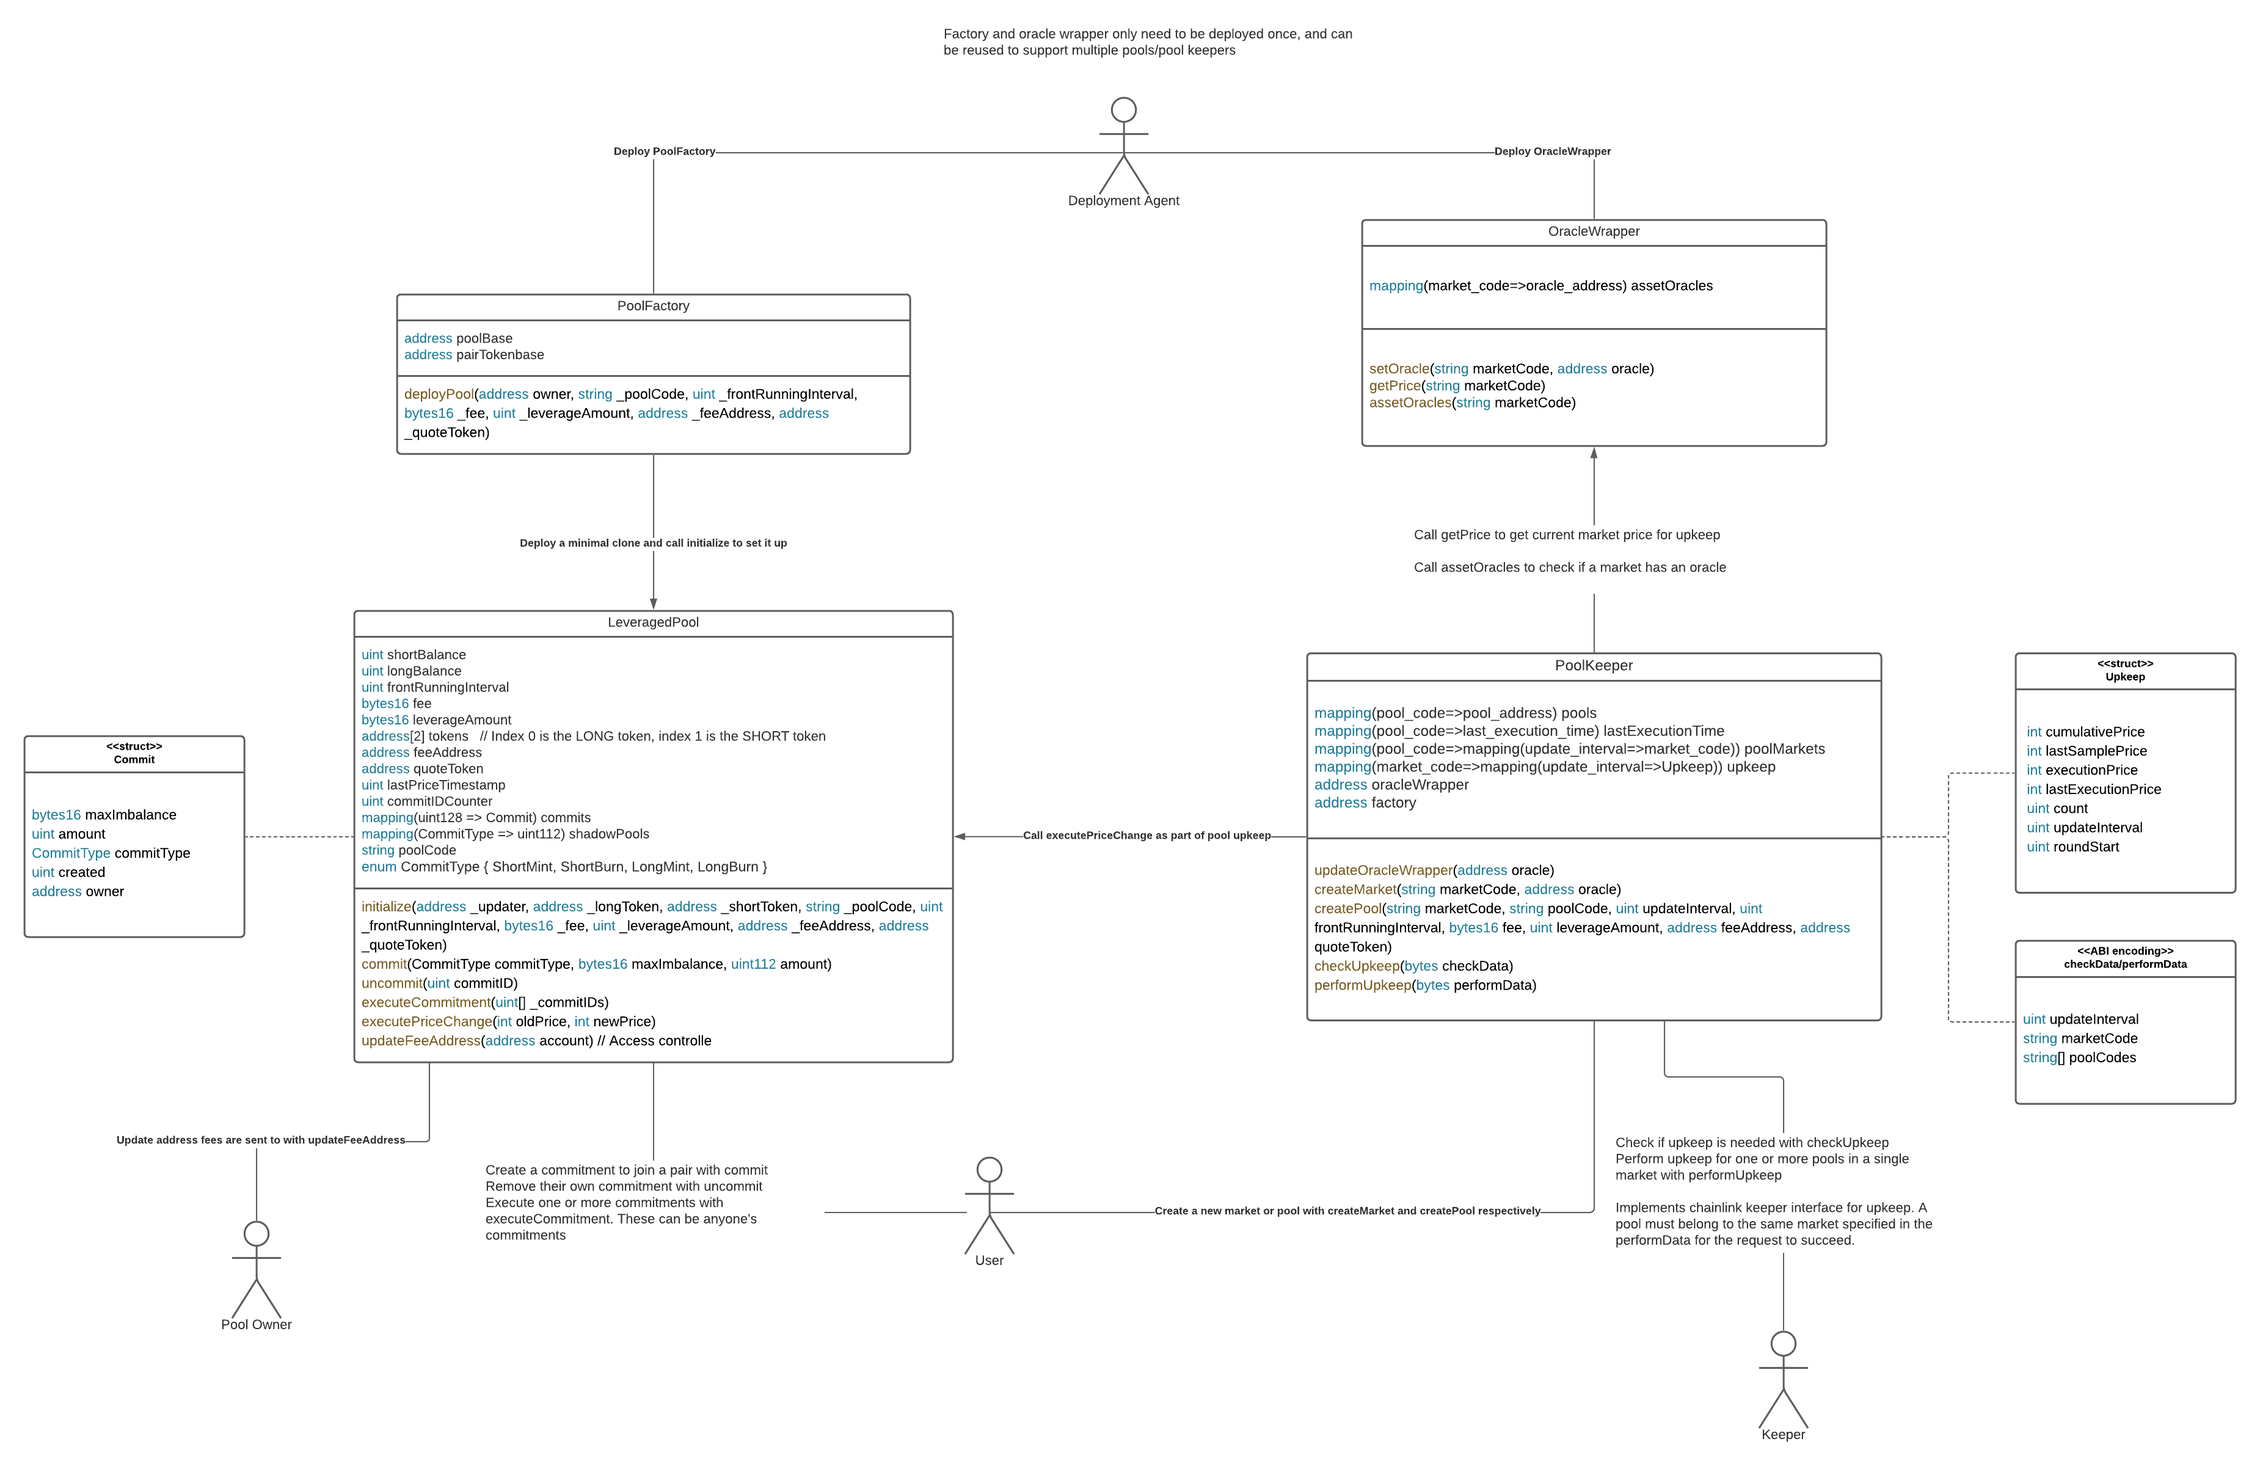
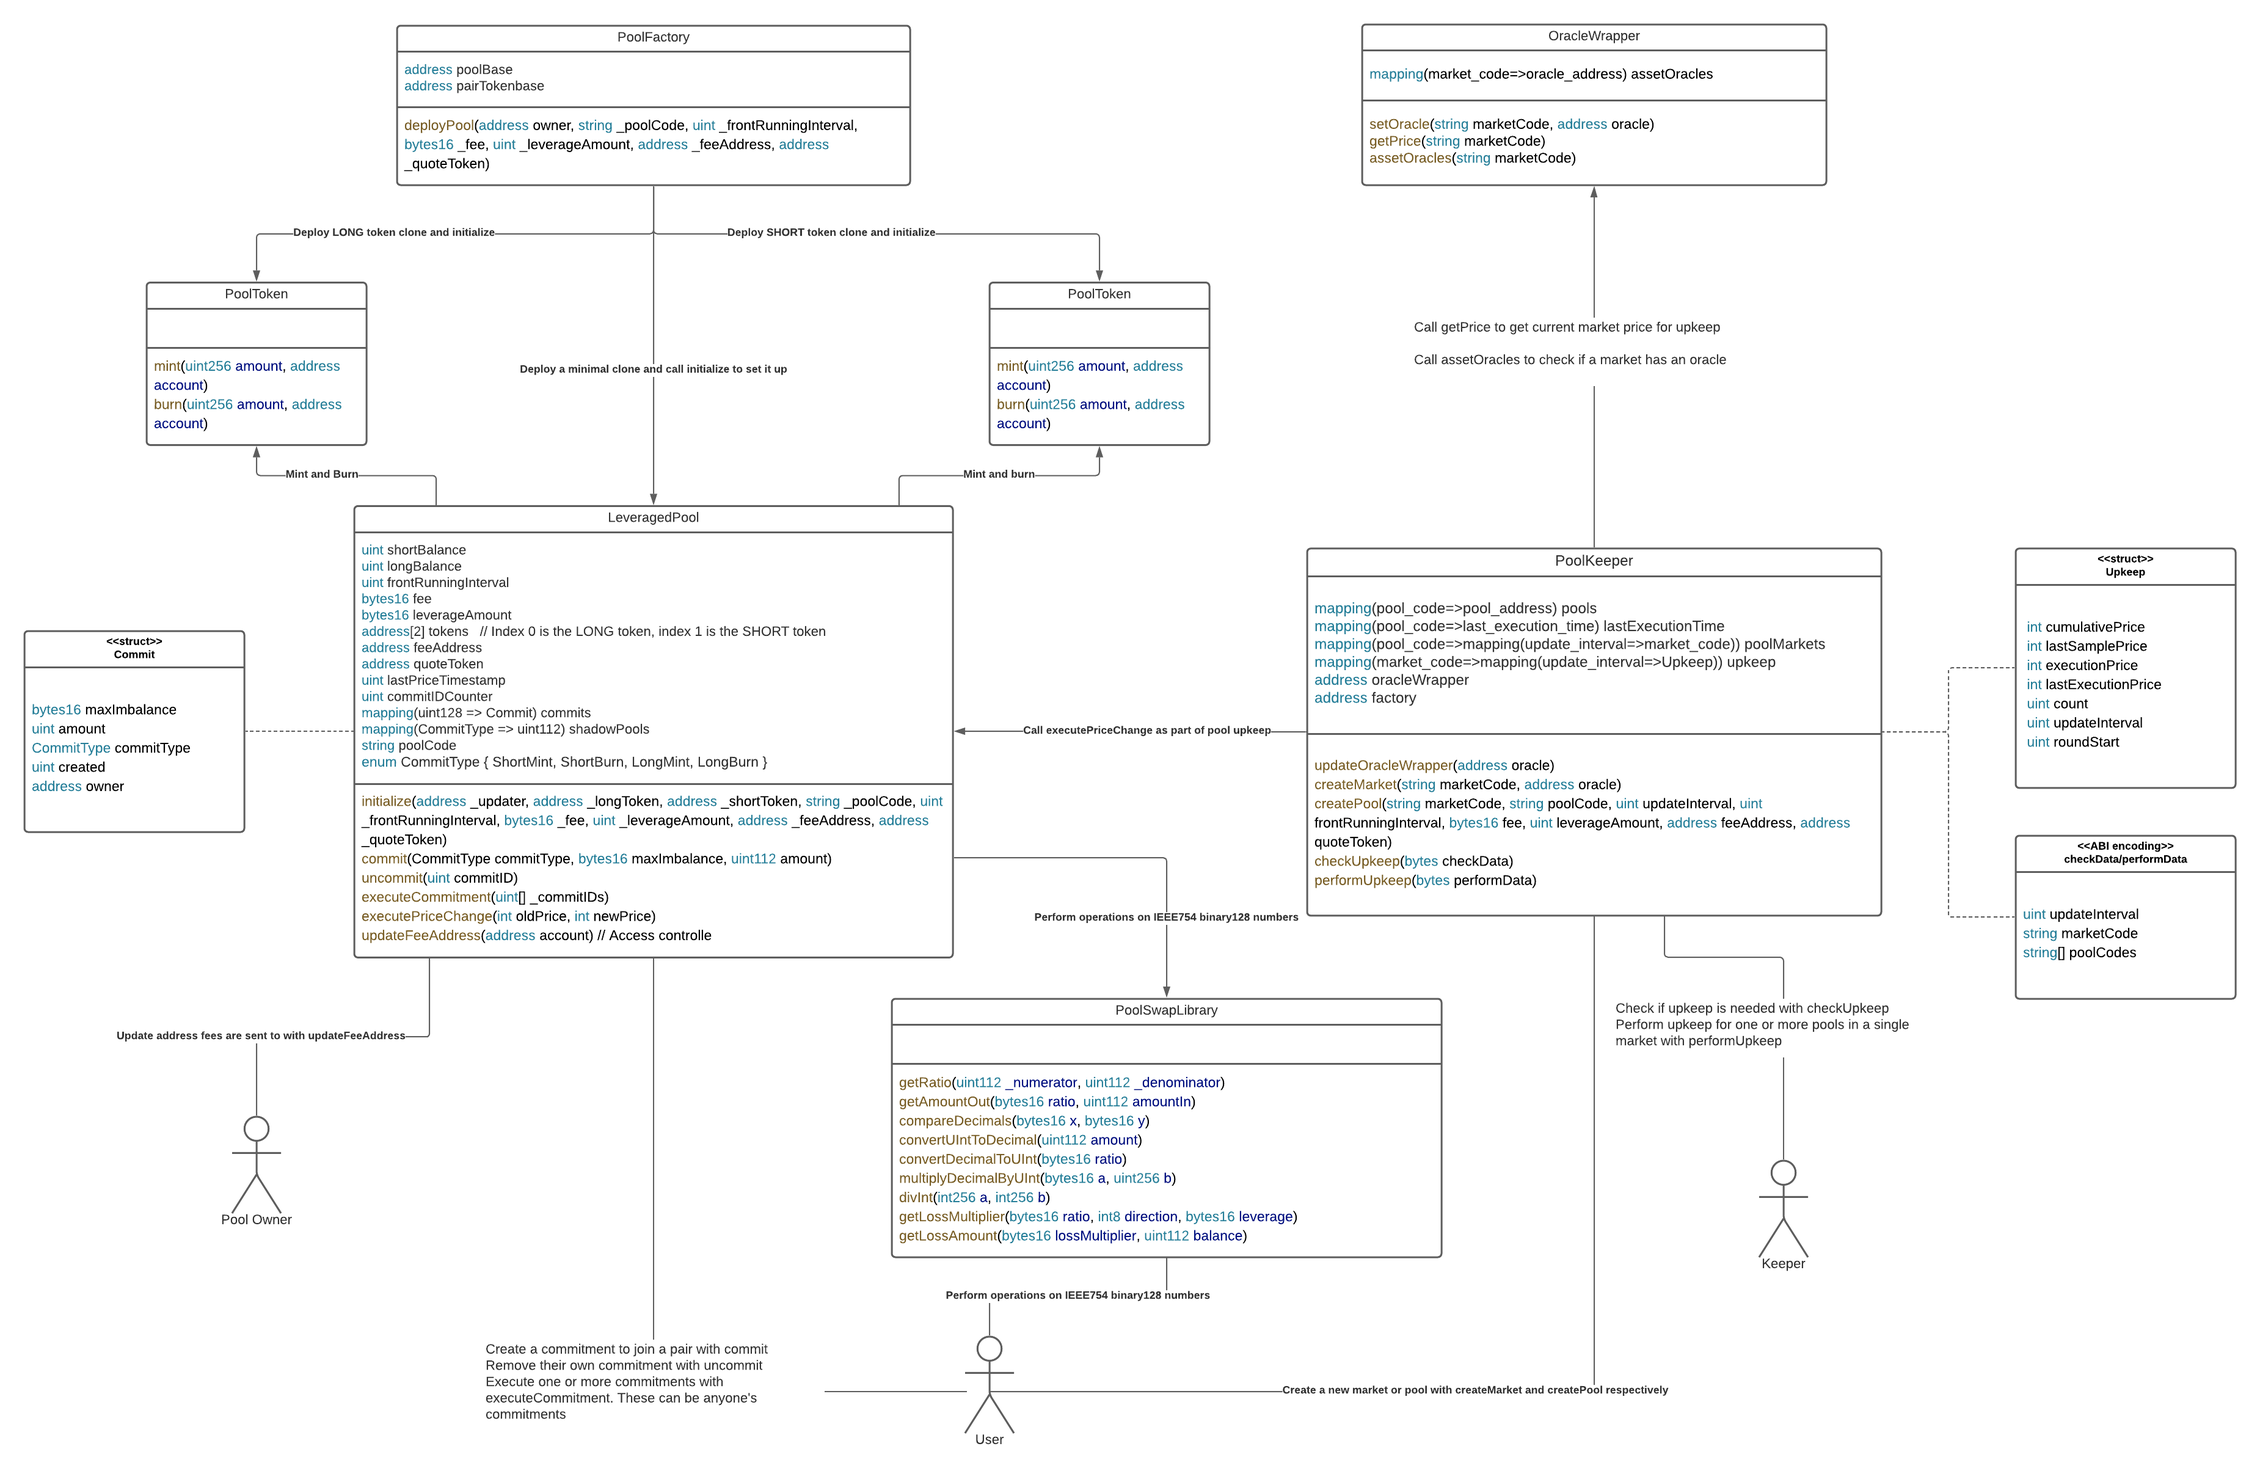
first draft of contract refernce and diagram done

diff --git a/documentation/contract-reference.md b/documentation/contract-reference.md
@@ -1,17 +1,25 @@
 # Contract Reference
-
+Quick reference on how the contracts fit together:
+![Contract layout and connections](./Current%20contract%20layout%20diagram.png "Diagram of contracts as they fit together")  
 ## PoolFactory
-Used by the `PoolKeeper` to deploy a new pool and its pair tokens. The pool and the tokens are deployed as minimal clones. The factory will automatically deploy and initialise the base contracts when it is deployed.
+Used by the `PoolKeeper` to deploy a new pool and its pair tokens. The pool and the tokens are deployed as minimal clones. The factory will automatically deploy and initialize the base contracts when it is deployed.
 
-The factory only needs to be deployed once. It can support multiple keepers, and multiple pools.
+The factory only needs to be deployed once. It can support multiple keepers and multiple pools.
 
 ### Events
 #### DeployPool
 `event DeployPool(address indexed pool, string poolCode);`  
 Emitted every time a pool is deployed.
-- `pool` The address of the new pool.
+- `pool` The address of the new pool. This can be calculated deterministically using the Openzeppelin Clones library's `predictDeterministicAddress` function.
 - `poolCode` The pool code for the newly deployed pool
-
+To predict the address: 
+```
+Clones.predictDeterministicAddress(
+        address(factory.poolBase()),
+        keccak256(abi.encode(_poolCode)),
+        address(factory)
+      )
+```
 ### State changing functions
 #### deployPool
 ```
@@ -25,7 +33,7 @@ function deployPool(
     address _quoteToken
   ) external returns (address);
 ```  
-Deploys a minimal clone of the `LeveragedPool` contract and two minimal clones of an ERC20 token for the pool to use as pair tokens. The pool and tokens are initialised. The access control for the two pair tokens is set to the newly deployed pool
+Deploys a minimal clone of the `LeveragedPool` contract and two minimal clones of an ERC20 token for the pool to use as pair tokens. The pool and tokens are initialized. The access control for the two pair tokens is set to the newly deployed pool
 - `owner` The access control for the pool's `executePriceChange` function is granted for this address. Typically this will be the keeper that is requesting the deployment.
 
 ## OracleWrapper
@@ -43,12 +51,18 @@ Returns the price from the chainlink oracle for the latest round.
 ### State changing functions
 #### setOracle
 `function setOracle(string memory marketCode, address oracle) external;`  
-Sets the oracle address for a market. By default this can only be used by the account that deployed the oracle wrapper. 
+Sets the oracle address for a market. By default, this can only be used by the account that deployed the oracle wrapper. 
 - `marketCode` The market to set an oracle for
-- `oracle` The new oracle address. Currently this must conform to the Chain link `AggregatorV3Interface`. 
+- `oracle` The new oracle address. Currently, this must conform to the Chain link `AggregatorV3Interface`. 
 
 ## PoolKeeper
-Something about the constructor here.
+Responsible for collecting average price data for an interval. Provides a single point of contact to perform price executions for multiple pools. 
+#### constructor
+`constructor(address _oracleWrapper, address _factory)`  
+Initializes the contract and grants a contract admin role to the deployer.
+- `_oracleWrapper` The oracle wrapper that will be used to collect price data for the pools
+- `_factory` The pool factory to use when deploying new pools.
+
 ### Events
 #### CreatePool
 ```
@@ -80,9 +94,9 @@ event NewRound(
     string market
   );
 ```  
-Emitted when a new pricing interval occurs for a pool. This occurs when the current unix timestamp is greater than the last price execution time plus the pool's update interval. Not all price change executions will emit this. It should only be emitted once per market/update interval pair, by the upkeep transaction that occurs first in the new interval.
+Emitted when a new pricing interval occurs for a pool. This occurs when the current Unix timestamp is greater than the last price execution time plus the pool's update interval. Not all price change executions will emit this. It should only be emitted once per market/update interval pair, by the upkeep transaction that occurs first in the new interval.
 - `oldPrice` The price from the penultimate price execution.
-- `newPrice` The new price used for execution in the interval just past. Both `oldPrice` and `newPrice` are an average of the price changes that have occurred during an interval (a price sample is taken whenever the price changes).
+- `newPrice` The new price used for execution in the interval just passed. Both `oldPrice` and `newPrice` are an average of the price changes that have occurred during an interval (a price sample is taken whenever the price changes).
 - `updateInterval` The size of the interval in seconds. 
 - `market` The market identifier. Price data is gathered and stored for `marketCode`/`updateInterval` pairs, to easily share data between pools on the same interval tracking the same market. These two parameters allow access to the current price data.
 
@@ -119,13 +133,13 @@ Emitted when a pool has a price change execution. If a pool fails to update, a `
 `event PoolUpdateError(string indexed poolCode, string reason);`  
 Emitted when a pool fails a price change execution. Since pools are updated in groups, this is used to signal an issue instead of reverting and leaving all pools out of date.
 - `poolCode` The pool's identifier
-- `reason` The reason for the failure. The most likely reason is that the `ERC20.transfer` call failed when transfering the fee to the fee holder.
+- `reason` The reason for the failure. The most likely reason is that the `ERC20.transfer` call failed when transferring the fee to the fee holder.
 
 
 ### State changing functions
 #### updateOracleWrapper
 `function updateOracleWrapper(address oracle) external;`  
- Updates the address of the oracle wrapper that the keeper uses to get price data. This can only be used by an account that has been granted the `ADMIN` role. By default this role is granted to the account that deployed the keeper. The contract uses Openzeppelin access controls, so this can be changed post deployment.
+ Updates the address of the oracle wrapper that the keeper uses to get price data. This can only be used by an account that has been granted the `ADMIN` role. By default, this role is granted to the account that deployed the keeper. The contract uses Openzeppelin access controls, so this can be changed post-deployment.
  - `oracle` The new oracle address.
  
 #### createMarket
@@ -149,15 +163,16 @@ function createPool(
 ```  
 Creates a pool in a given market. 
 - `marketCode` The identifier for the market to create the pool in. This must exist before the pool is created.
-- `poolCode` The name of the pool. There are no restrictions on the format, however the pool must not already exist in the keeper.
+- `poolCode` The name of the pool. There are no restrictions on the format, however, the pool must not already exist in the keeper.
 - `updateInterval` The frequency in seconds that the pool will be updated
-- `frontRunningInterval` The amount of time a user must commit to adding or withdrawing to the pool before the movement of funds can actually occur. This must be smaller than the update interval.
-- `fee` The percentage fee to be charged with every price change execution. This is per update interval, so for 2% annual fee at 7 day updates, the fee would be 0.02 / 52 = ~0.00038. To generate the number in the correct format, the `PoolSwapLibrary.getRatio` method should be used.
+- `frontRunningInterval` The amount of time a user must commit to adding or withdrawing to the pool before the movement of funds can occur. This must be smaller than the update interval.
+- `fee` The percentage fee to be charged with every price change execution. This is per update interval, so for a 2% annual fee at daily updates, the fee would be 0.02 / 52 = ~0.00038. To generate the number in the correct format, the `PoolSwapLibrary.getRatio` method should be used.
 - `leverageAmount` The amount to be applied in the power leverage calculation. Internally this is stored as a decimal so the `PoolSwapLibrary.convertDecimalToUInt` method should be used when retrieving a pool's leverage for users to view.
 - `feeAddress` The address to send fees to
 - `quoteToken` The address of the digital asset that the pool is demarcated in
 
 ## LeveragedPool
+Manages the short and long pairs of a pool. 
 ### Events
 #### PoolInitialized
 ```
@@ -186,7 +201,7 @@ event CreateCommit(
 Emitted when a commit is created. This forms the user's record of commits, as the commit details are not retrievable without the commit ID.
 - `commitID` The ID of the commit, to be used when withdrawing or executing the commit.
 - `amount` The amount that was committed
-- `maxImbalance` The difference between the pools that the user specified. If the commit is executed and this is smaller than the resulting difference, the transaction will revert.
+- `maxImbalance` The difference between the pools that the user-specified. If the commit is executed and this is smaller than the resulting difference, the transaction will revert.
 - `commitType` The type of commit (long burn, short burn, long mint, short mint)
 
 #### RemoveCommit
@@ -199,7 +214,7 @@ event RemoveCommit(
 ```  
 Emitted when a commit is withdrawn.
 - `commitID` The ID of the withdrawn commit
-- `amount` The amount of tokens that were returned to the user
+- `amount` The number of tokens that were returned to the user
 - `commitType` The type of commit that was withdrawn
 
 #### ExecuteCommit
@@ -219,6 +234,22 @@ Emitted when a price change execution occurs.
 - `endPrice` The price from the current execution interval
 
 ### State changing functions
+#### initialize
+```
+function initialize(
+  address _updater,
+  address _longToken,
+  address _shortToken,
+  string memory _poolCode,
+  uint32 _frontRunningInterval,
+  bytes16 _fee,
+  uint16 _leverageAmount,
+  address _feeAddress,
+  address _quoteToken
+) external;
+```
+Initializes a minimal clone of a pool contract. This can only be run once. Ordinarily, this will be executed by the pool factory in the same transaction as the deployment. 
+
 #### commit
 ```
 function commit(
@@ -240,14 +271,14 @@ Used to execute the transfer of funds from the shadow pool balance into the live
 
 #### executePriceChange
 `function executePriceChange(int256 oldPrice, int256 newPrice) external;`  
-Used by the pool keeper to move funds between the long and short pool balances based on the change in price of the underlying market asset. This function is only able to be called by the pool keeper (or other party, as setup during deployment of the pool). 
+Used by the pool keeper to move funds between the long and short pool balances based on the change in the price of the underlying market asset. This function is only able to be called by the pool keeper (or another party, as specified during deployment of the pool). 
 
 #### updateFeeAddress
 `function updateFeeAddress(address account) external;`  
-Used by the pool owner to change the address that the pool fees are transfered to every price execution. This is secured with an Openzeppelin access control role, so it is possible that the owner's address is not the same as the address the funds are transferred to.
+Used by the pool owner to change the address that the pool fees are transferred to every price execution. This address is the only one allowed to change the fee address. Care must be taken to not change it to an address outside of the pool owner's control.
 
 ## PoolSwapLibrary
-Utilizes the ABDKMathQuad library to work with 128 bit floating point numbers (IEEE754 binary128).
+Utilizes the ABDKMathQuad library to work with 128-bit floating-point numbers (IEEE754 binary128).
 
 ### Read only functions
 #### getRatio
@@ -257,7 +288,7 @@ function getRatio(uint112 _numerator, uint112 _denominator)
     pure
     returns (bytes16);
 ```  
-Calculates `_numerator/denominator` and returns the result as a IEEE754 binary128 number.
+Calculates `_numerator/denominator` and returns the result as an IEEE754 binary128 number.
 
 #### getAmountOut
 ```
@@ -272,7 +303,7 @@ Returns the amount of `amountIn` to transfer based on the `ratio`.
 `function compareDecimals(bytes16 x, bytes16 y) external pure returns (int8)`  
 Compares two IEEE754 binary128 numbers and returns:
 - `-1` if the first is lower than the second
-- `0` if they are the the same value
+- `0` if they are the same value
 - `1` if the first number is larger than the second
 
 #### convertUIntToDecimal
@@ -290,7 +321,7 @@ function multiplyDecimalByUInt(bytes16 a, uint256 b)
     pure
     returns (bytes16)
 ```
-Returns the product of and IEEE754 binary128 number and a `uint256`.
+Returns the product of an IEEE754 binary128 number and a `uint256`.
 
 #### divInt
 `function divInt(int256 a, int256 b) external pure returns (bytes16)`  
@@ -304,10 +335,14 @@ function getLossMultiplier(
     bytes16 leverage
   ) external pure returns (bytes16)
 ```  
-Calculates the multiplier to apply to the losing pool balance to get the amount to transfer. The formula it uses is:
+Calculates the multiplier to apply to the balance of the losing pool. The formula it uses is:
 ```
-DO ON MONDAY
+Ratio R = old price / new price
+Loss multiplier LM = (R < 1 ? 1 : 0) * R + (R >= 1 ? 1 : 0) * 1 / R
+Adjusted loss multiplier = 1 - LM ^ leverage
 ```
+The exact implementation uses the following formula for the power calculation for performance reasons.   
+![Exponent with an arbitrary base using a power of 2](https://miro.medium.com/max/233/1*Q4VX0wvgVXrFDwdwda7gtg.png "Power of 2 exponents with an arbitrary base")  
 
 #### getLossAmount
 ```
@@ -319,4 +354,7 @@ function getLossAmount(bytes16 lossMultiplier, uint112 balance)
 Applies a loss multiplier to an amount and returns the amount that should be transferred.
 
 #### one and zero
-Getter functions for pre-generated decimal values for 1 and 0 respectively.
+Getter functions for pre-generated IEEE754 binary128 values for 1 and 0 respectively.
+
+## PoolToken
+A standard ERC20 contract with mint and burn methods under the pool's control. The contract is compatible with the minimal clone proxy type. 
